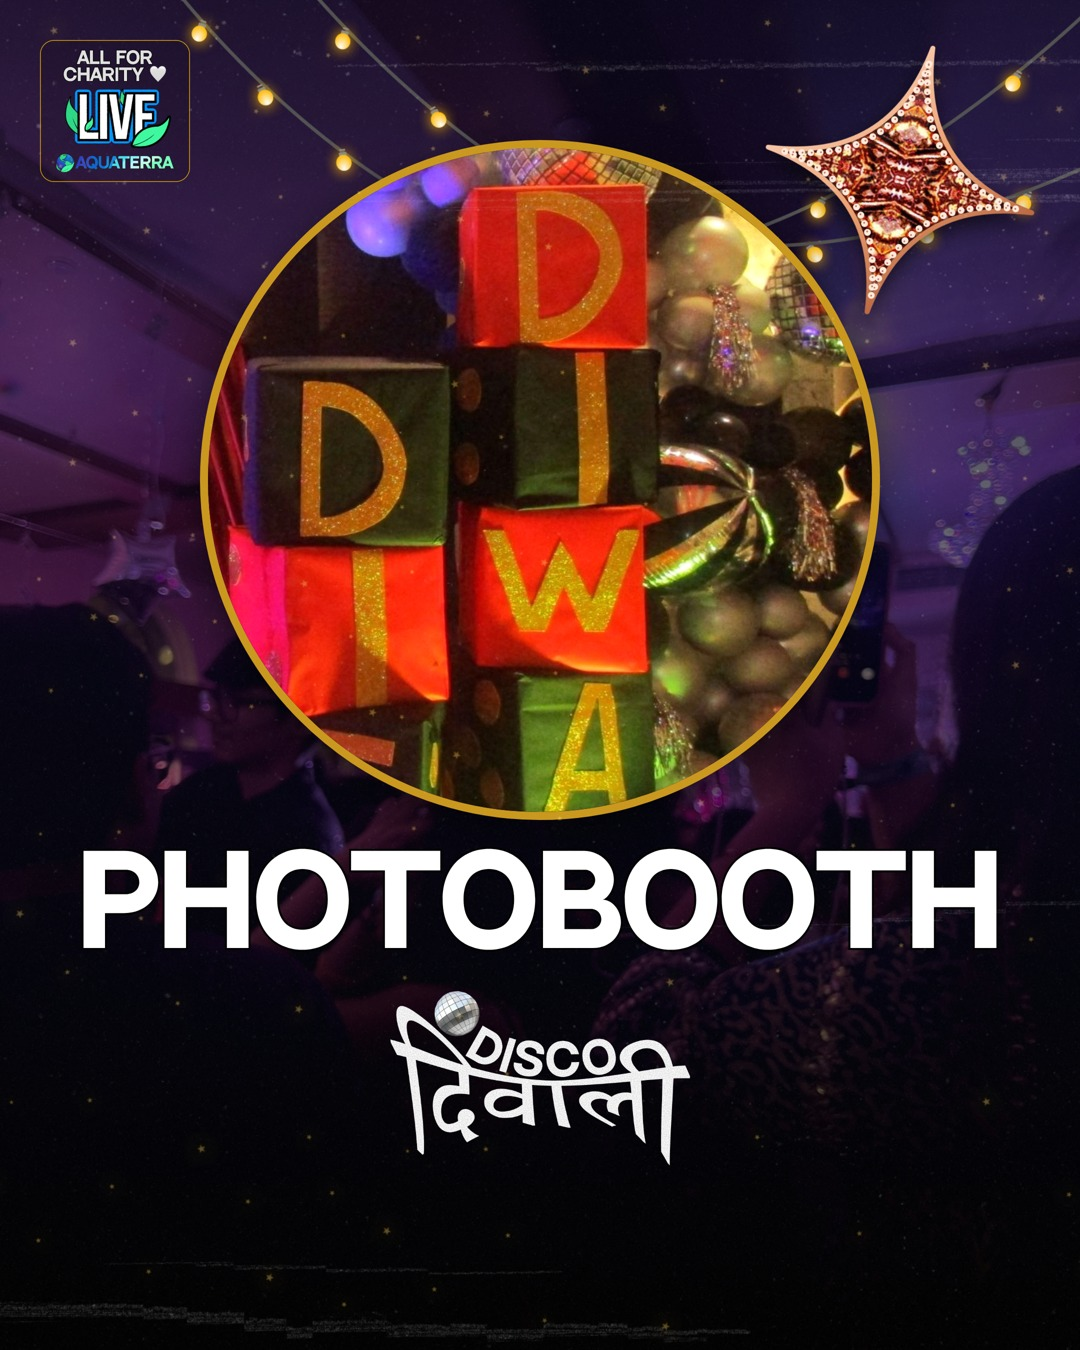
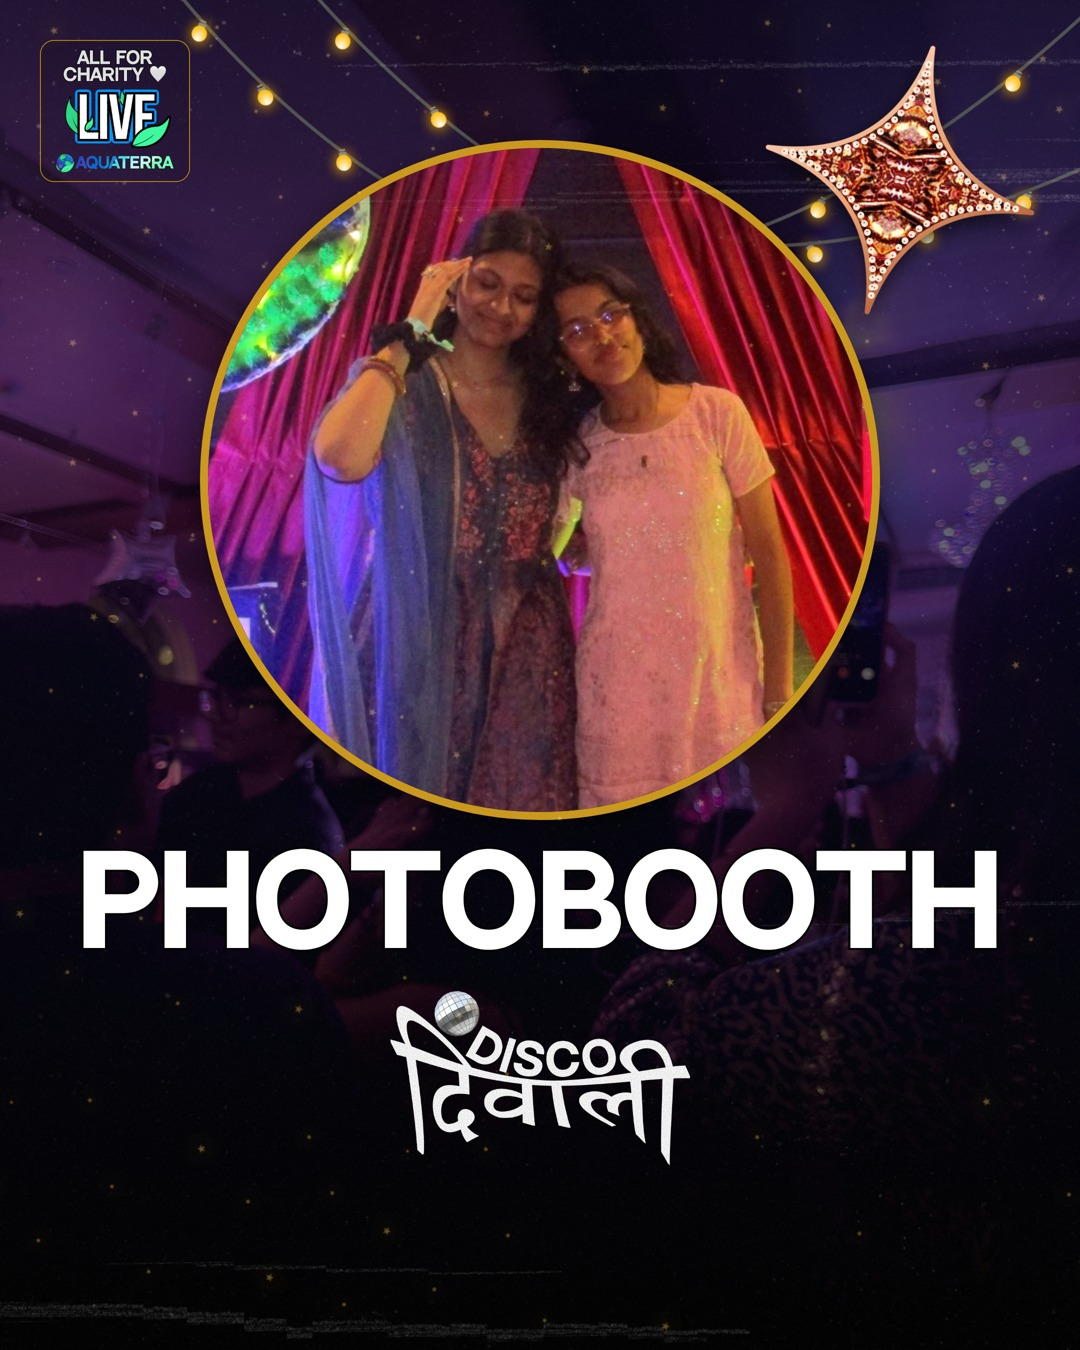
Photobooth poster: keep the people, drop the block tower
Claude-Session: https://claude.ai/code/session_011Tdiin6aNXQLggVhcwaFdk

Changed region(s): [[0.1833, 0.0933, 0.825, 0.6222]]

diff --git a/scratchpad/dd_photobooth.py b/scratchpad/dd_photobooth.py
@@ -1,4 +1,4 @@
-"""DISCO DIWALI "PHOTOBOOTH" activity poster (copy of dd_stimulator.py; photo cropped to the DISCO DIWALI block tower and balloons so no faces appear): same layout; headline is the name only, no invented details), feed (1080x1350, also the WhatsApp size) and story (1080x1920), 2026-10-24.
+"""DISCO DIWALI "PHOTOBOOTH" activity poster (copy of dd_stimulator.py; photo v2 (user: keep the people, not the tower): cropped to the two people and the curtain): same layout; headline is the name only, no invented details), feed (1080x1350, also the WhatsApp size) and story (1080x1920), 2026-10-24.
 From the user's Paradox reference (circular photo, big red NANDU JEE, two-part tagline, JOIN NOW button, sponsor + logos): the MECHANISM is kept
 (real photo in a circle, display headline, snarky tagline) and rebuilt on the Disco Diwali skeleton: diya ground, string lights, LIVE badge, copper diya sticker on the
 circle's corner, the lockup (with ball) as the footer mark. Adaptations: the Realmark title-sponsor mark, the Paradox logo and the beach palms are NOT Disco Diwali's, so they
@@ -12,7 +12,7 @@ spec = importlib.util.spec_from_file_location("discodiwali", os.path.join(ROOT, 
 dd = importlib.util.module_from_spec(spec); spec.loader.exec_module(dd)
 B = dd.B; W = 1080
 OUT = os.path.join(ROOT, "out", "discodiwali", "photobooth")
-PHOTO = os.path.join(ROOT, "engine", "assets", "img", "events", "disco-diwali-photobooth", "01_block-letters-balloons-crop.jpg")
+PHOTO = os.path.join(ROOT, "engine", "assets", "img", "events", "disco-diwali-photobooth", "02_two-people-curtain-crop.jpg")
 STROKE = "color:#fff;-webkit-text-stroke:4px #000;paint-order:stroke fill;"
 sys.path.insert(0, os.path.dirname(os.path.abspath(__file__)))
 import dd_photo_bg as PB, dd_copper as CP   # noqa: E402  (photo ground and copper stickers, shared with the carousel posters)
@@ -28,7 +28,7 @@ def poster(H):
     cx, cy0 = (W - d) // 2, (340 if story else 140)
     parts.append(f'<div data-tag="circle" style="position:absolute;left:{cx}px;top:{cy0}px;width:{d}px;height:{d}px;border-radius:50%;overflow:hidden;border:8px solid {dd.GOLD};'
                  f'box-sizing:border-box;z-index:10;box-shadow:0 14px 40px rgba(0,0,0,.6)">'
-                 f'<img src="{dd.photo_uri(PHOTO)}" style="width:100%;height:100%;object-fit:cover;object-position:50% 40%;filter:contrast(1.06) saturate(1.05)"></div>')
+                 f'<img src="{dd.photo_uri(PHOTO)}" style="width:100%;height:100%;object-fit:cover;object-position:50% 30%;filter:contrast(1.06) saturate(1.05)"></div>')
     els.append(("circle", cx, cy0, d, d))
     # copper PIN sticker (user, 2026-10-24: "a different sticker, not the mask") tucked on the circle's top-right; sticker() is square, rotation baked in
     ss = 300 if story else 280
